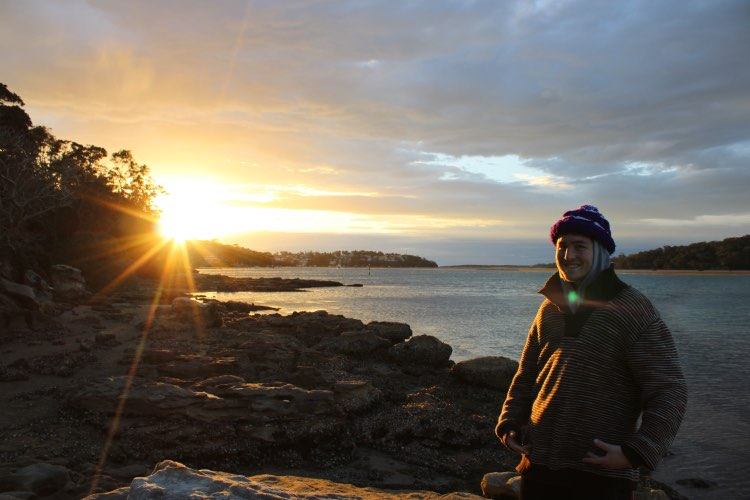
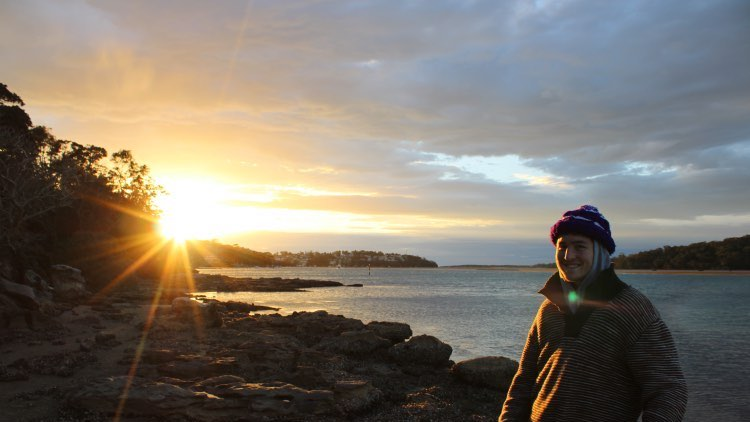
Updated image ratios.

diff --git a/src/app/components/empowering-you/your-stories/p2p.your-stories.landing.component.html b/src/app/components/empowering-you/your-stories/p2p.your-stories.landing.component.html
@@ -16,7 +16,7 @@
                 <div class="col-md-6">
                     <a href="#/your-stories/podcasts">
                         <div class="bg-image rounded">
-                            <img src="assets/img/your-stories/your-stories-podcast.png" class="w-100" />
+                            <img src="assets/img/your-stories/your-stories-podcast.jpg" class="w-100" />
                             <div class="mask text-light d-flex justify-content-center flex-column text-center" style="background-color: hsla(0, 0%, 0%, 0.2)">
                                 <h3><b>Podcast Interviews →</b></h3>
                             </div>
